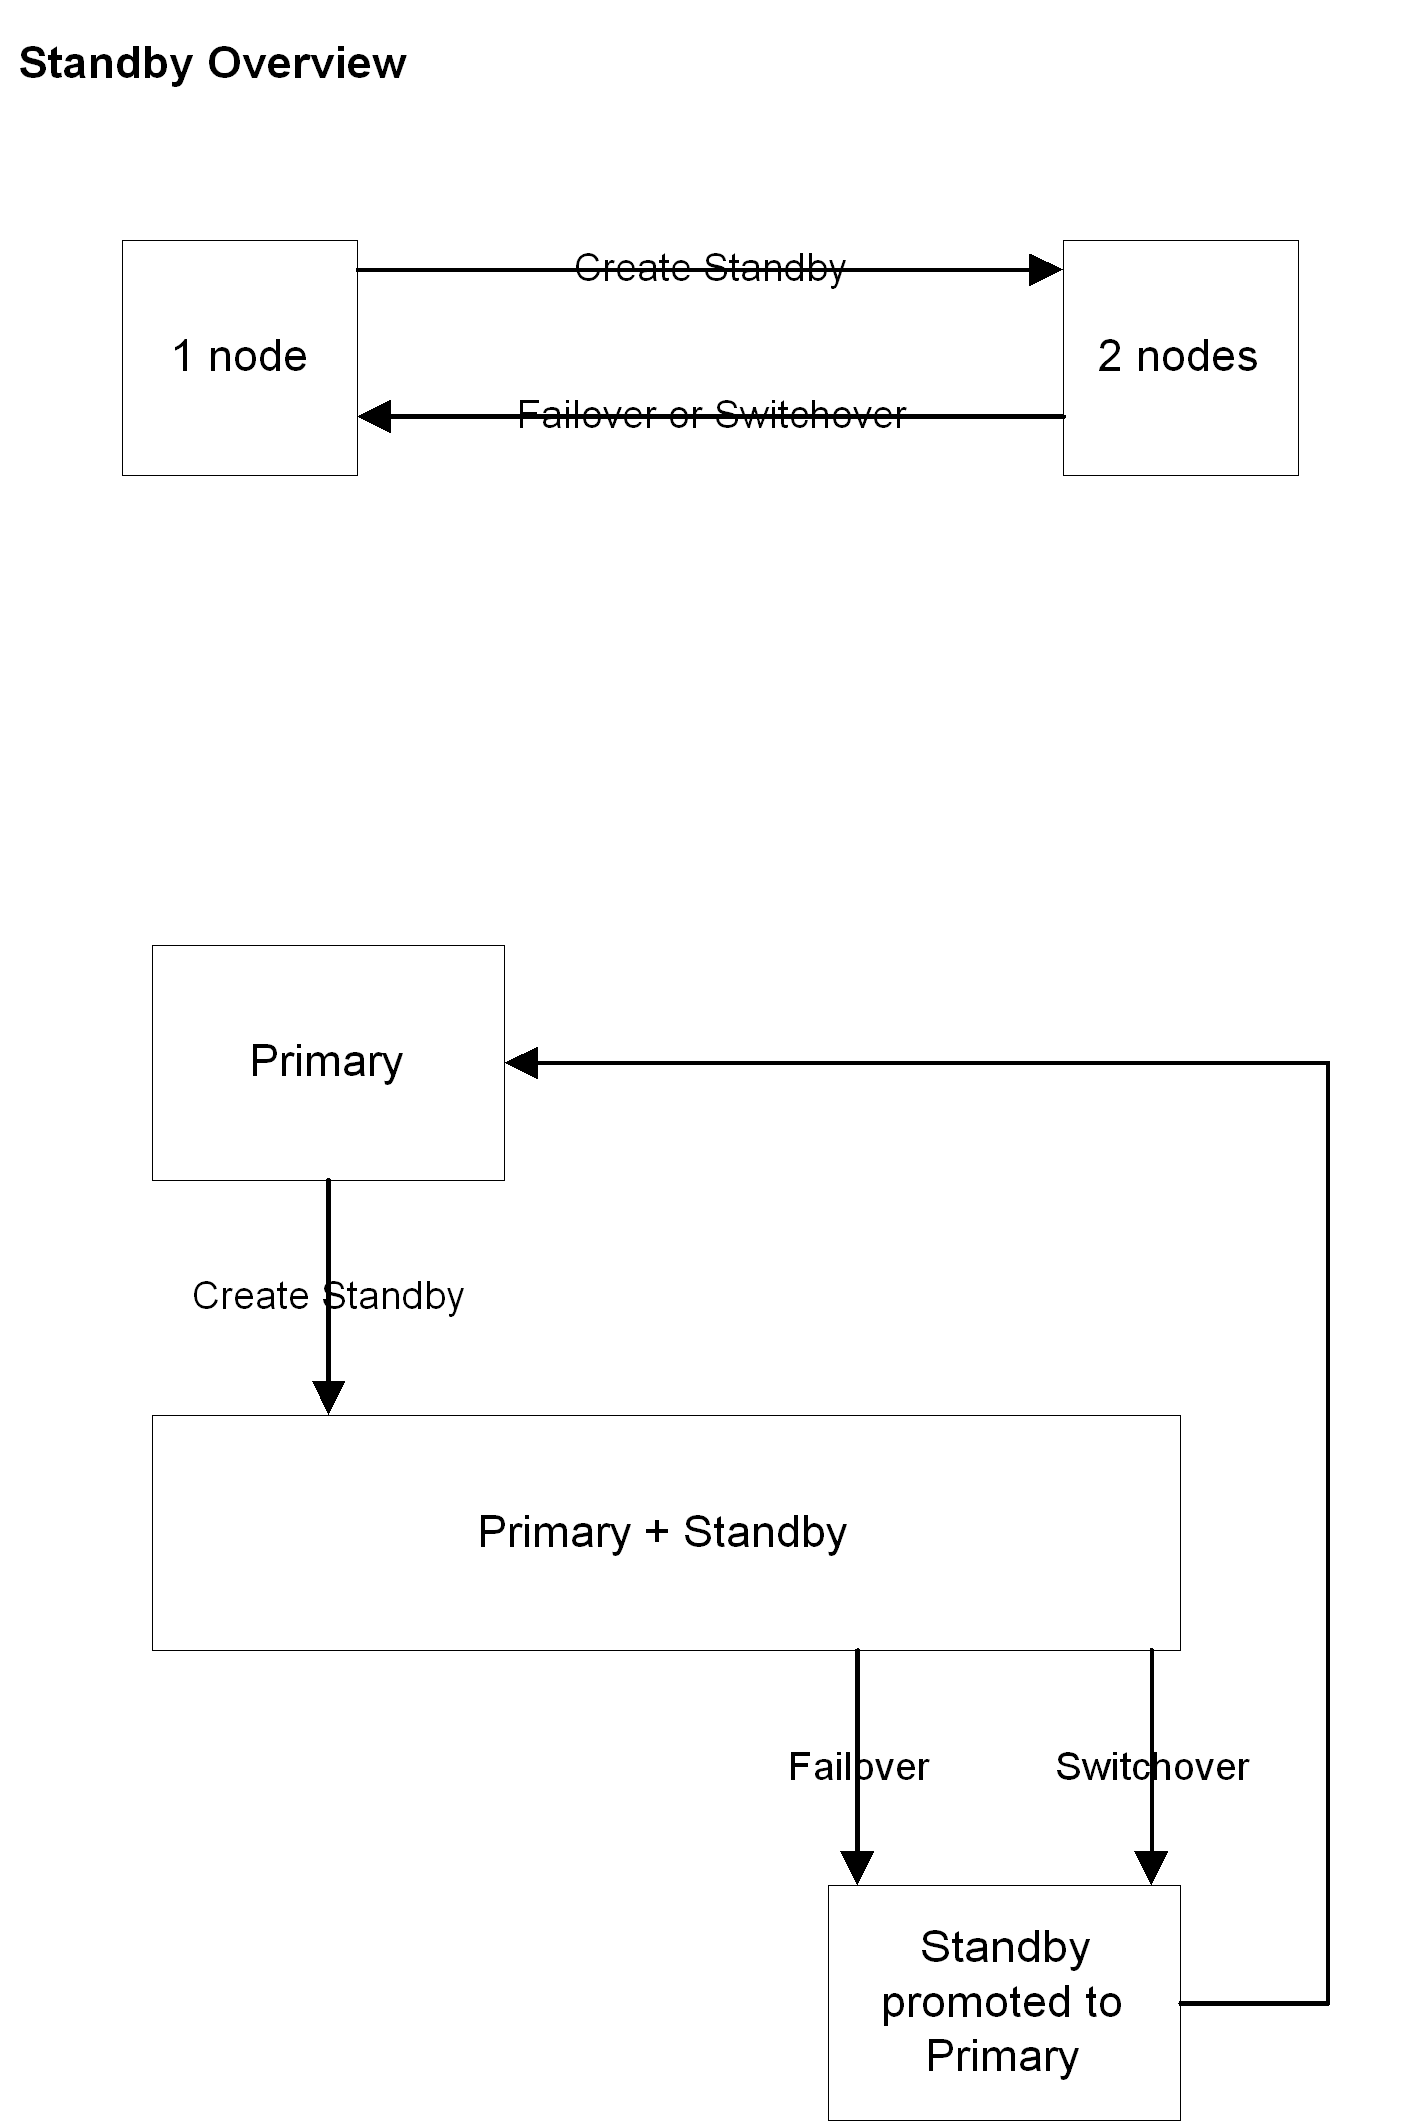
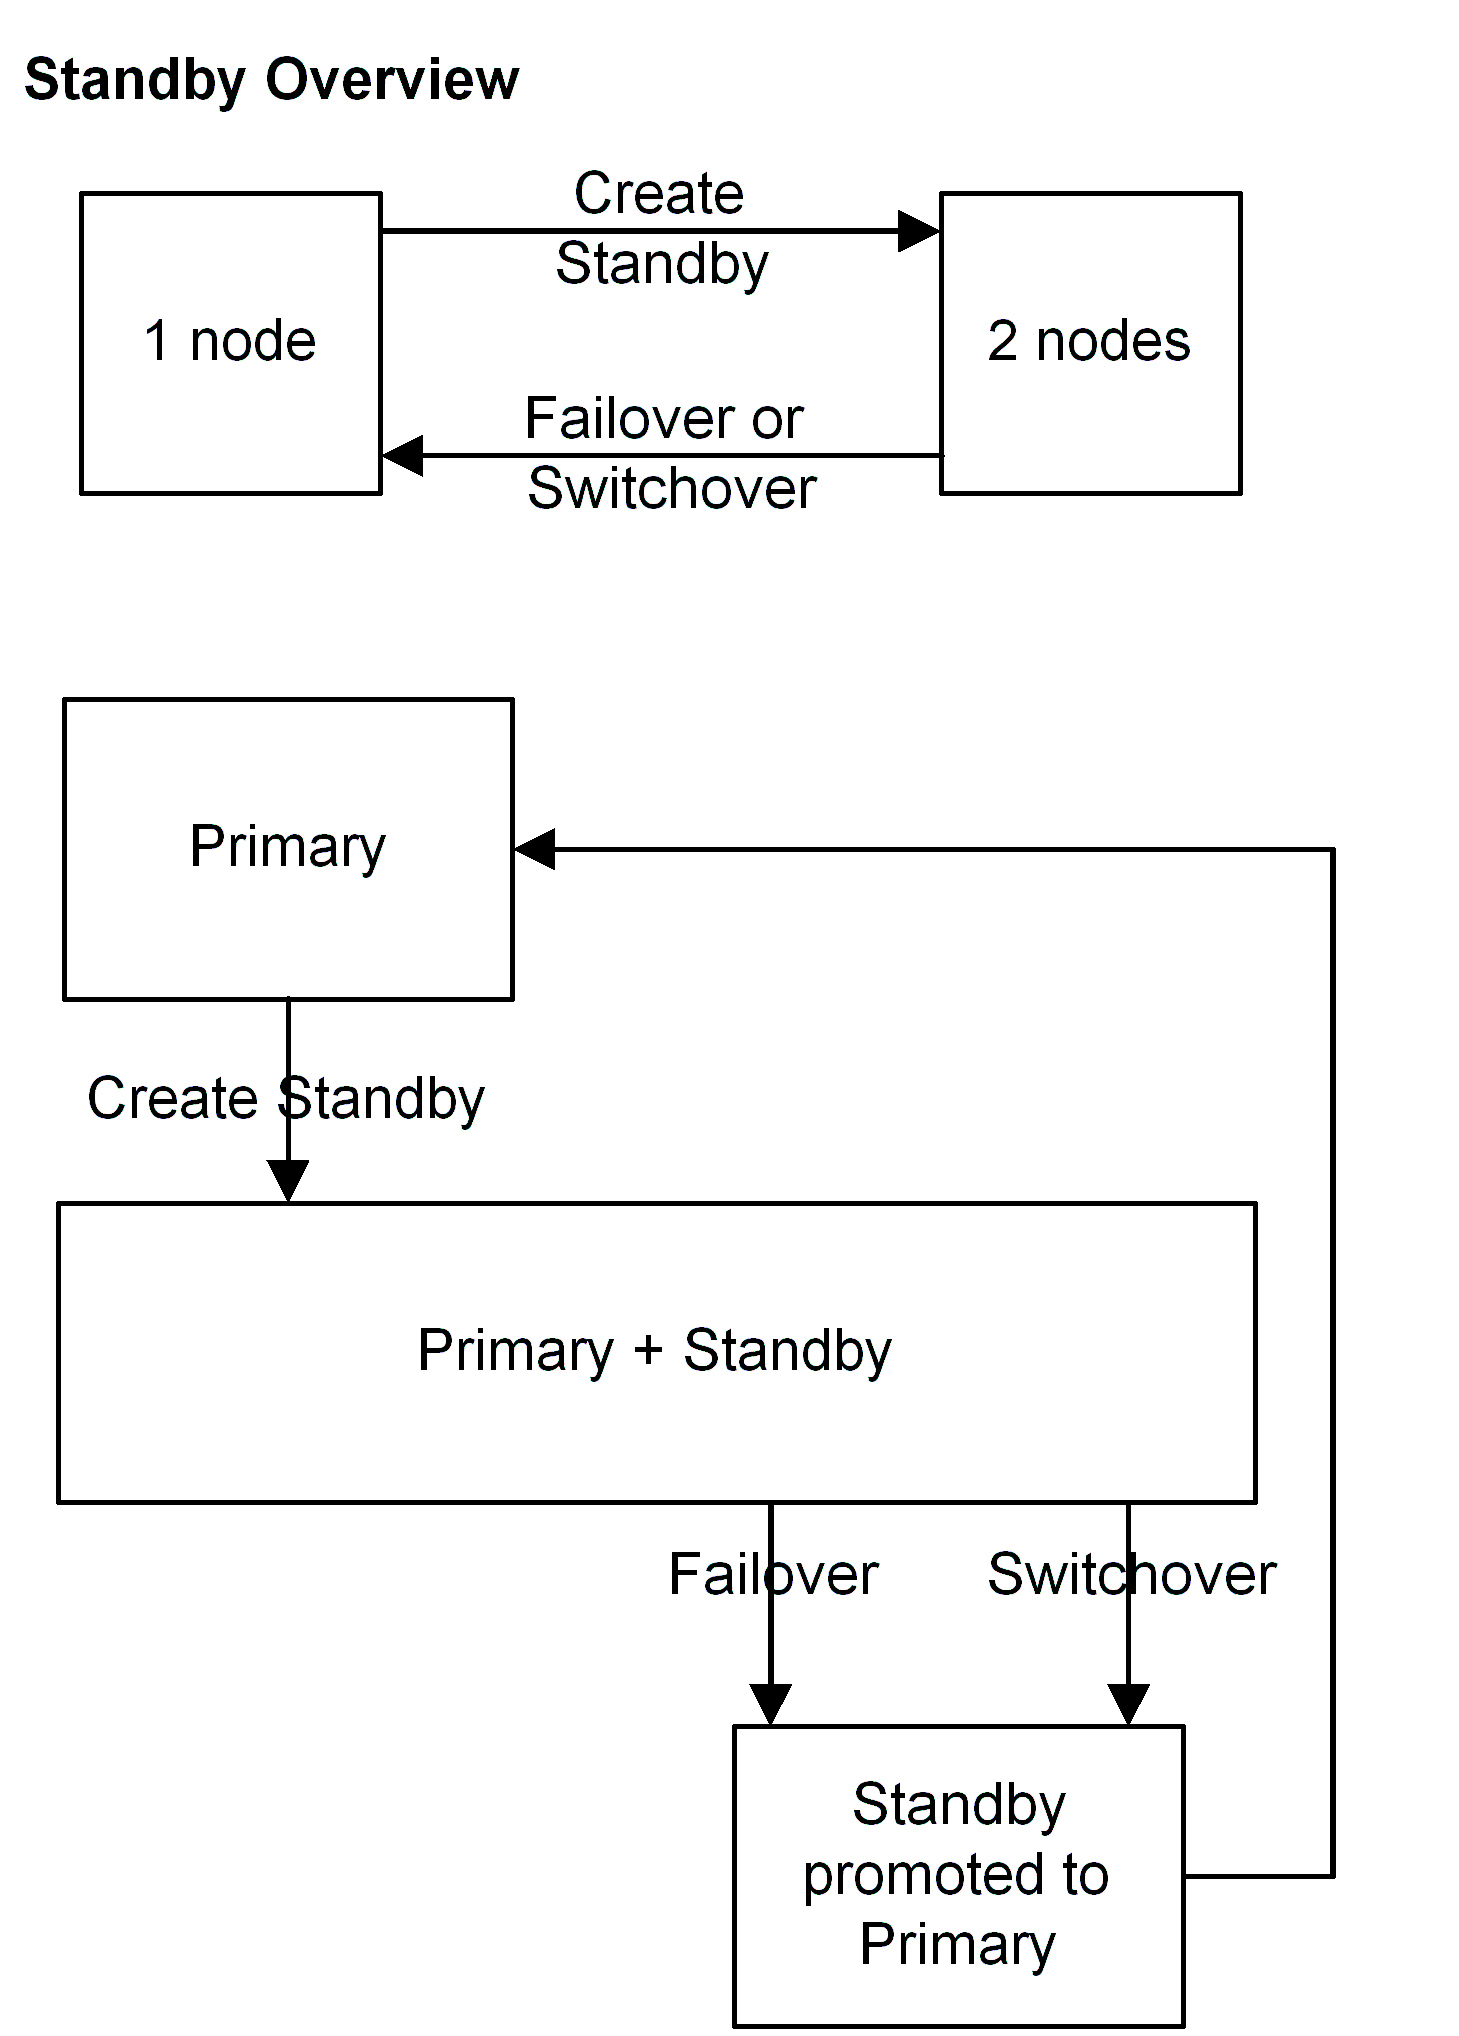
Adjust images in manual

diff --git a/2warm/docs/2warm-manual.rst b/2warm/docs/2warm-manual.rst
@@ -70,7 +70,7 @@ The scripts used generally follows one of the paths outlined on this internal di
 
 .. image:: images/internal.png
    :width: 100%
-   :scale: 75
+   :scale: 50
 
 These scripts are all in the 2warm/global/replication directory.
 
@@ -103,13 +103,11 @@ In the simple two-node case, the transitions possible are fairly straightforward
 
 .. image:: images/two-node.png
    :width: 100%
-   :scale: 75
 
 If a third disaster recovery node is added, there are several more possible paths involved:
 
 .. image:: images/dr-node.png
    :width: 100%
-   :scale: 75
 
 Installation
 ++++++++++++
